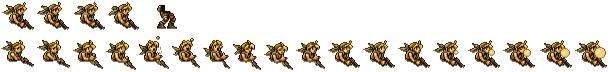
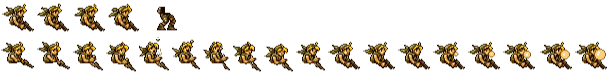
Idle, JumpIdle Animation 각 파트 완성, JumpEnd Animation 작업 중 각 파트별 Animation 계속 작업 및 이후 파트별로 중심점 맞추는 작업 필요

Changed region(s): [[0.0, 0.5, 0.9935, 1.0], [0.0, 0.0278, 0.3105, 0.4444]]

diff --git a/MetalSlug/Bitmap.cpp b/MetalSlug/Bitmap.cpp
@@ -1,6 +1,5 @@
 #include "Bitmap.h"
 
-
 using namespace std;
 
 ULONG_PTR g_GdiplusToken;
@@ -12,16 +11,21 @@ HBITMAP hBackgroundImg;
 BITMAP bitBackground;
 
 Bitmap* EriIdle;
-Bitmap* EriJump;
+Bitmap* EriJumpStart;
+Bitmap* EriJumpEnd;
 
 #define BACKSKYIMG_HEIGHT_START 0
 #define BACKSKYIMG_WIDTH_START 0
 #define BACKSKYIMG_HEIGHT 272
 #define BACKSKYIMG_WIDTH 2374
 
-int Jump_Frame_Max = 0;
-int Jump_Frame_Min = 0;
-int curFrame = Jump_Frame_Min;
+#define FrameCount_Idle 8
+#define FrameCount_JumpIdleStart 16
+#define FrameCount_JumpEnd 12
+
+int curFrame = 0;
+int FrameMax = 0;
+int FrameMin = 0;
 
 void InitRectView(RECT rect)
 {
@@ -75,7 +79,6 @@ void DrawBitmapDoubleBuffering(HWND hWnd, HDC hdc)
 void DeleteBitmap()
 {
 	DeleteObject(hBackgroundImg);
-	DeleteObject(hRebelSoldierImg);
 }
 
 void Gdi_Init()
@@ -87,9 +90,10 @@ void Gdi_Init()
 	// PlayerCharacter
 	//=====================================================================================================================
 
-	// Eri -> width : 36, height :
+	// Eri
 	EriIdle = new Bitmap(_T("images/Eri Kasamoto_Idle.png"));
-	EriJump = new Bitmap(_T("images/Eri Kasamoto_Jump.png"));
+	EriJumpStart = new Bitmap(_T("images/Eri Kasamoto_JumpIdle.png"));
+	EriJumpEnd = new Bitmap(_T("images/Eri Kasamoto_JumpEnd.png"));
 
 	//=====================================================================================================================
 	// EnemyCharacter
@@ -97,9 +101,11 @@ void Gdi_Init()
 
 	// Rebel Soldier
 
-	Jump_Frame_Max = 6 - 1;
-	Jump_Frame_Min = 0;
-	curFrame = Jump_Frame_Min;
+	vector<int> frames;
+	frames.push_back(FrameCount_Idle);
+	frames.push_back(FrameCount_JumpIdleStart);
+	frames.push_back(FrameCount_JumpEnd);
+	FrameMax = Lcm(frames);
 }
 
 void Gdi_Draw(HDC hdc)
@@ -108,32 +114,30 @@ void Gdi_Draw(HDC hdc)
 
 	if (EriIdle)
 	{
-		//AniEriIdle(&graphics);
+		AniEriIdle(&graphics);
 	}
-	if (EriJump)
+	if (EriJumpStart)
 	{
-		AniEriJump(&graphics);
+		AniEriJumpStart(&graphics);
+	}
+	if (EriJumpEnd)
+	{
+		AniEriJumpEnd(&graphics);
 	}
 }
 
 void Gdi_End()
 {
 	delete EriIdle;
-	delete EriJump;
+	delete EriJumpStart;
 	GdiplusShutdown(g_GdiplusToken);
-}
-
-CachedBitmap* ImageToCachedBitmap(Image* pImg, int ImgWidth, int ImgHeight)
-{
-	HDC hTempDC;
-	return nullptr;
 }
 
 void UpdateFrame(HWND hWnd)
 {
 	curFrame++;
-	if (curFrame > Jump_Frame_Max)
-		curFrame = Jump_Frame_Min;
+	if (curFrame > FrameMax)
+		curFrame = FrameMin;
 }
 
 //======================================================================================================================
@@ -157,32 +161,64 @@ void DrawBackGround(HDC hdc, HDC& hMemDC, HBITMAP& hBitmap)
 
 void AniEriIdle(Graphics* graphics)
 {
-	int xStart[4] = { 0,34,70,105};
-	int upperBody_yStart = 650;
+	int xStart[FrameCount_Idle] = { 0,35,71,105,105,71,35,0};
+	int upperBody_yStart = 0;
 	int upperBody_Height = 32;
 	int lowerBody_yStart = upperBody_yStart + upperBody_Height;
-	int lowerBody_Height = 30;
+	int lowerBody_Height = 32;
 	int lowerBody_DrawStart = 27;
+	int frame = curFrame % FrameCount_Idle;
 
-	graphics->DrawImage(EriIdle, 100, 100 + lowerBody_DrawStart, 147, lowerBody_yStart, 33, lowerBody_Height, UnitPixel);
-	graphics->DrawImage(EriIdle, 100, 100, xStart[curFrame], upperBody_yStart, 33, upperBody_Height, UnitPixel);
+	graphics->DrawImage(EriIdle, 100, 100 + lowerBody_DrawStart, 147, 0, 33, lowerBody_Height, UnitPixel);
+	graphics->DrawImage(EriIdle, 100+4, 100+10, xStart[frame], upperBody_yStart, 33, upperBody_Height, UnitPixel);
 }
 
-void AniEriJump(Graphics* graphics)
+void AniEriJumpStart(Graphics* graphics)
 {
-	int xStart[6] = { 0,34,70,105,142,177 };
+	int xStart[FrameCount_JumpIdleStart] = { 0,34,70,105,142,177,177,142,142,105,105,105,105,105,105,105 };
 	int upperBody_yStart = 0;
 	int upperBody_Height = 32;
 	int lowerBody_yStart = upperBody_yStart + upperBody_Height;
 	int lowerBody_Height = 30;
 	int lowerBody_DrawStart = 27;
+	int frame = curFrame % FrameCount_JumpIdleStart;
 
-	ImageAttributes imgAttr;
-	//imgAttr.SetColorKey(Color());
+	graphics->DrawImage(EriJumpStart, 200, 100 + lowerBody_DrawStart, xStart[frame], lowerBody_yStart, 33, lowerBody_Height, UnitPixel);
+	graphics->DrawImage(EriJumpStart, 200, 100, xStart[frame], upperBody_yStart, 33, upperBody_Height, UnitPixel);
+}
 
-	graphics->DrawImage(EriJump, 100, 100 + lowerBody_DrawStart, xStart[curFrame], lowerBody_yStart, 33, lowerBody_Height, UnitPixel);
-	graphics->DrawImage(EriJump, 100, 100, xStart[curFrame], upperBody_yStart, 33, upperBody_Height, UnitPixel);
+void AniEriJumpEnd(Graphics* graphics)
+{
+	int xStart[FrameCount_JumpEnd] = { 1,36,72,110,110,72,72,36,36,1,1 };
+	int Body_yStart = 0;
+	int Body_Height = 36;
+	int frame = curFrame % FrameCount_JumpEnd;
 
-	graphics->DrawImage(EriJump, 200, 100 + lowerBody_DrawStart, xStart[curFrame], lowerBody_yStart, 33, lowerBody_Height, UnitPixel);
-	graphics->DrawImage(EriJump, 200, 100, xStart[curFrame], upperBody_yStart, 33, upperBody_Height, UnitPixel);
+	graphics->DrawImage(EriJumpEnd, 300, 120, xStart[frame], Body_yStart, 35, Body_Height, UnitPixel);
+}
+
+int Gcd(int a, int b)
+{
+	int A = max(a, b);
+	int B = min(a, b);
+
+	while (A % B != 0)
+	{
+		int R = A % B;
+		A = B;
+		B = R;
+	}
+	return B;
+}
+
+int Lcm(vector<int> arr)
+{
+	int res = arr[0];
+	for (int i = 1; i < arr.size(); i++)
+	{
+		int GCD = Gcd(res, arr[i]);
+		int LCM = res * arr[i] / GCD;
+		res = LCM;
+	}
+	return res;
 }

diff --git a/MetalSlug/Bitmap.h b/MetalSlug/Bitmap.h
@@ -12,11 +12,13 @@ void Gdi_Init();
 void Gdi_Draw(HDC hdc);
 void Gdi_End();
 
-CachedBitmap* ImageToCachedBitmap(Image* pImg, int ImgWidth, int ImgHeight);
-
 void UpdateFrame(HWND hWnd);
 
 void DrawBackGround(HDC hdc, HDC& hMemDC, HBITMAP& hBitmap);
 
 void AniEriIdle(Graphics* graphics);
-void AniEriJump(Graphics* graphics);
+void AniEriJumpStart(Graphics* graphics);
+void AniEriJumpEnd(Graphics* graphics);
+
+int Gcd(int a, int b);
+int Lcm(std::vector<int> arr);

diff --git a/MetalSlug/framework.h b/MetalSlug/framework.h
@@ -22,3 +22,5 @@
 using namespace Gdiplus;
 
 #pragma comment(lib,"msimg32.lib")
+
+#include <vector>
